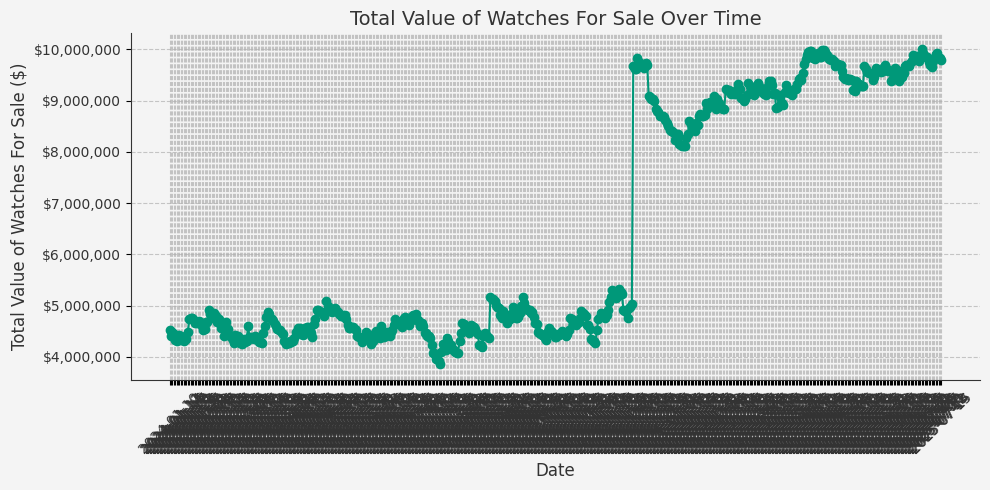
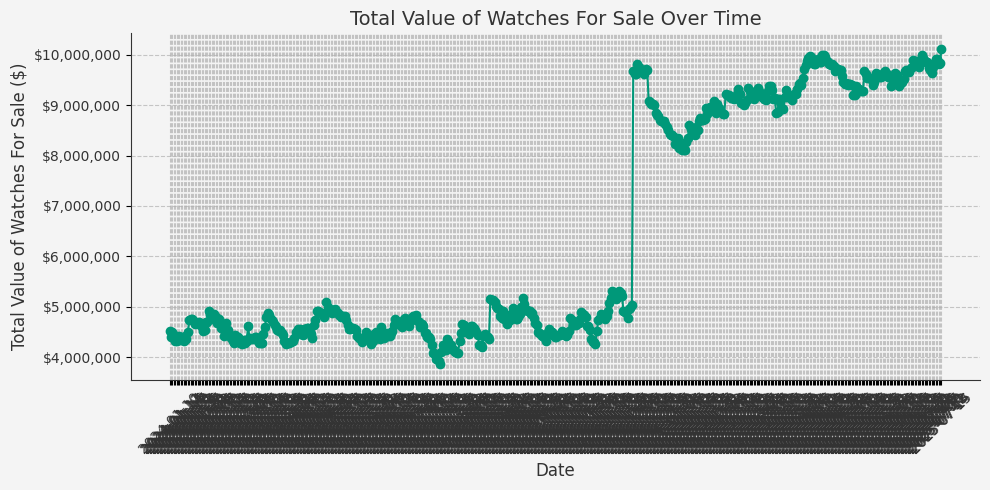
Update docs, portfolio image and portfolio statistics

diff --git a/docs/index.html b/docs/index.html
@@ -57,9 +57,9 @@
     <h1>Watch Data Report - 2025-07-15</h1>
     <div class="stats">
         <h3>Summary Statistics</h3>
-        <p>Value of sold Watches: $115,750.00</p>
-        <p>Value of listed Watches: $7,350.00</p>
-        <p>Value of unsold Watches: $9,796,600.00</p>
+        <p>Value of sold Watches: $143,700.00</p>
+        <p>Value of listed Watches: $330,300.00</p>
+        <p>Value of unsold Watches: $10,113,800.00</p>
     </div>
     <h2>Price Changes Today:</h2>
     <table border="1" class="dataframe table">
@@ -72,6 +72,12 @@
     </tr>
   </thead>
   <tbody>
+    <tr>
+      <td>1988 Rolex 18K Yg Day-Date 18078 Black Dial With Rsc And Box</td>
+      <td>sold</td>
+      <td>$14,850.00</td>
+      <td><a href="https://tropicalwatch.com/watches/1988-rolex-18k-yg-day-date-18078-black-dial-with-rsc-and-box/yxhe" target="_blank">Link</a></td>
+    </tr>
   </tbody>
 </table>
 
@@ -86,9 +92,44 @@
   </thead>
   <tbody>
     <tr>
-      <td>1997 Nos Rolex Datejust 16234 Silver Dial</td>
-      <td>$7,350.00</td>
-      <td><a href="https://tropicalwatch.com/watches/1997-nos-rolex-datejust-16234-silver-dial/6i7t" target="_blank">Link</a></td>
+      <td>2015 Patek Philippe Nautilus 5711/1A With Box And Archive</td>
+      <td>$96,550.00</td>
+      <td><a href="https://tropicalwatch.com/watches/2015-patek-philippe-nautilus-5711-1a-with-box-and-archive/y1r9" target="_blank">Link</a></td>
+    </tr>
+    <tr>
+      <td>2018 Patek Philippe 18K Rg Aquanaut Travel Time 5164R With Box And Papers</td>
+      <td>$105,850.00</td>
+      <td><a href="https://tropicalwatch.com/watches/2018-patek-philippe-18k-rg-aquanaut-travel-time-5164r-with-box-and-papers/jg0p" target="_blank">Link</a></td>
+    </tr>
+    <tr>
+      <td>1996 Rolex 18K Yg Ladies Diamond Pyramid Datejust 69178 Guilloché Mop Dial</td>
+      <td>$12,350.00</td>
+      <td><a href="https://tropicalwatch.com/watches/1996-rolex-18k-yg-ladies-diamond-pyramid-datejust-69178-guilloche-mop-dial/i7wh" target="_blank">Link</a></td>
+    </tr>
+    <tr>
+      <td>1963 Rolex Pcg Submariner 5513 Gilt Underline Triple Swiss Gilt Dial</td>
+      <td>$38,550.00</td>
+      <td><a href="https://tropicalwatch.com/watches/1963-rolex-pcg-submariner-5513-gilt-underline-triple-swiss-gilt-dial/myxf" target="_blank">Link</a></td>
+    </tr>
+    <tr>
+      <td>1968 Rolex Gmt-Master 1675 Mk 1 Tropical Dial With Certificate Of Service</td>
+      <td>$19,850.00</td>
+      <td><a href="https://tropicalwatch.com/watches/1968-rolex-gmt-master-1675-mk-1-tropical-dial-with-certificate-of-service/6p27" target="_blank">Link</a></td>
+    </tr>
+    <tr>
+      <td>1996 Rolex 18K Yg Daytona 16528 Mop Arabic Dial</td>
+      <td>$43,550.00</td>
+      <td><a href="https://tropicalwatch.com/watches/1996-rolex-18k-yg-daytona-16528-mop-arabic-dial/vtgf" target="_blank">Link</a></td>
+    </tr>
+    <tr>
+      <td>1993 Rolex Datejust 16234 Black Dial With Box And Papers</td>
+      <td>$7,650.00</td>
+      <td><a href="https://tropicalwatch.com/watches/1993-rolex-datejust-16234-black-dial-with-box-and-papers/bqcm" target="_blank">Link</a></td>
+    </tr>
+    <tr>
+      <td>1979 Rolex Datejust 16014 Silver Dial</td>
+      <td>$5,950.00</td>
+      <td><a href="https://tropicalwatch.com/watches/1979-rolex-datejust-16014-silver-dial/umwl" target="_blank">Link</a></td>
     </tr>
   </tbody>
 </table>
@@ -103,6 +144,16 @@
     </tr>
   </thead>
   <tbody>
+    <tr>
+      <td>1968 Rolex Submariner 5513 Meters First Dial</td>
+      <td>Sold</td>
+      <td><a href="https://tropicalwatch.com/watches/1968-rolex-submariner-5513-meters-first-dial/b1tr" target="_blank">Link</a></td>
+    </tr>
+    <tr>
+      <td>1991 Rolex Datejust 16220 Warm Silver Dial</td>
+      <td>Sold</td>
+      <td><a href="https://tropicalwatch.com/watches/1991-rolex-datejust-16220-warm-silver-dial/xjrh" target="_blank">Link</a></td>
+    </tr>
     <tr>
       <td>1991 Rolex Explorer 14270</td>
       <td>Sold</td>
@@ -127,6 +178,11 @@
       <td>1976 Rolex Oysterdate 6694 Blue Dial</td>
       <td>Sold</td>
       <td><a href="https://tropicalwatch.com/watches/1976-rolex-oysterdate-6694-blue-dial/r9d2" target="_blank">Link</a></td>
+    </tr>
+    <tr>
+      <td>1997 Nos Rolex Datejust 16234 Silver Dial</td>
+      <td>Sold</td>
+      <td><a href="https://tropicalwatch.com/watches/1997-nos-rolex-datejust-16234-silver-dial/6i7t" target="_blank">Link</a></td>
     </tr>
   </tbody>
 </table>
